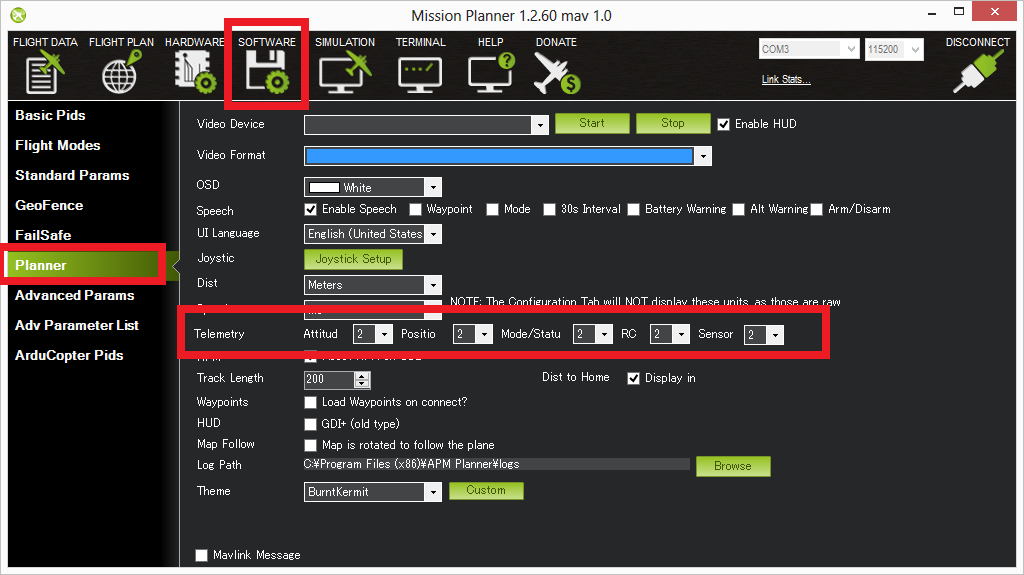
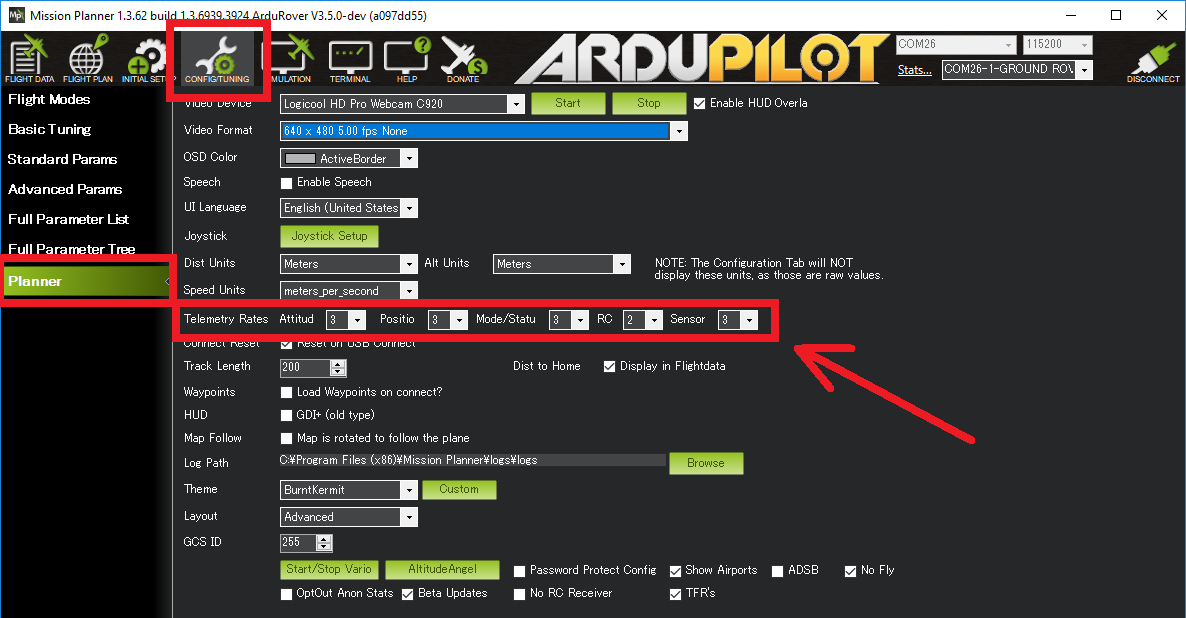
Common: minor updates to mission-planner-tlogs page

diff --git a/common/source/docs/common-mission-planner-telemetry-logs.rst b/common/source/docs/common-mission-planner-telemetry-logs.rst
@@ -35,15 +35,9 @@ planner.  but cannot be parsed or played back so they should be ignored.
 Setting the datarate
 ====================
 
-The desired rate at which data is sent from the APM/PX to the ground
-station can be controlled through the mission planner's Software >
-Planner screen's Telemetry drop-downs.  Because all data sent over the
-telemetry link is also recorded in the tlog, this also controls the rate
-of data saved to the tlogs.
+The desired rate at which data is sent from the flight controller to the ground station can be controlled through the mission planner's Config/Tuning > Planner screen's Telemetry drop-downs.  Because all data sent over the telemetry link is also recorded in the tlog, this also controls the rate of data saved to the tlogs.
 
-Note that especially on Copter, due to CPU resource limitations, the
-actual rate of the data sent and saved may be lower than the rate
-requested.
+Note that due to bandwidth limitations, the actual rate of the data sent and saved may be lower than the rate requested.
 
 .. image:: ../../../images/mp_telemetry_rate.png
     :target: ../_images/mp_telemetry_rate.png
@@ -51,9 +45,7 @@ requested.
 Playing back missions
 =====================
 
-If you are using wireless telemetry and have connected to to APM via the
-Mission Planner, your flight data will automatically recorded.  You can
-play back these logs by doing the following:
+It is possible to play back a tlog by doing the following:
 
 -  Open the mission planner's Flight Data screen
 -  click on the Telemetry Logs tab
